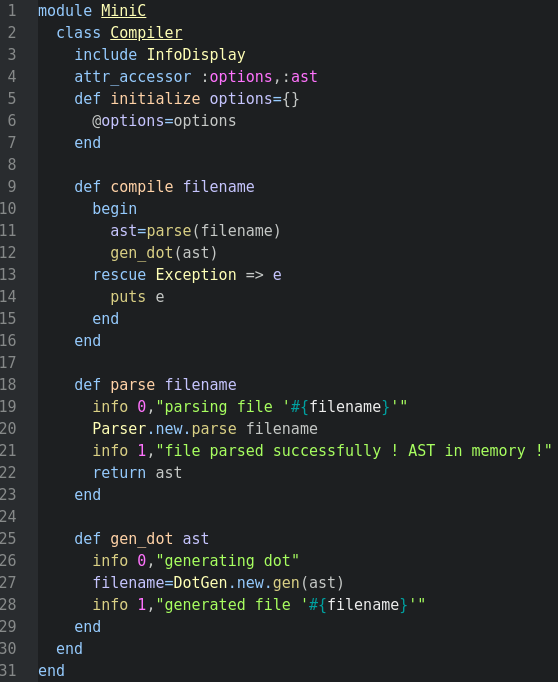
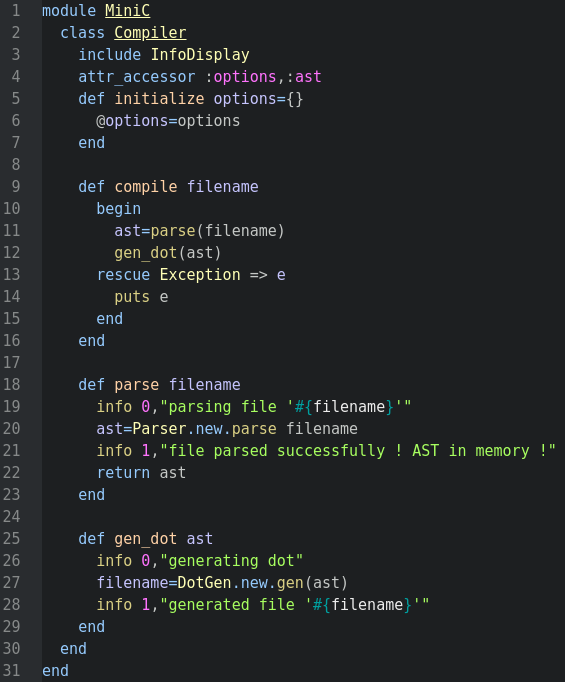
modified README

diff --git a/lib/minic/dot_gen.rb b/lib/minic/dot_gen.rb
@@ -19,30 +19,30 @@ module MiniC
       output_filename
     end
 
-    def rec_walk node
-      id=node.object_id
-      na=node.class.to_s.split("::").last #node name
+    def rec_walk source
+      id=source.object_id
+      na=source.class.to_s.split("::").last #node name
       @code << "#{id}[label=\"#{na}\"]"
-      node.instance_variables.each do |ivar|
-        subnode=node.instance_variable_get(ivar)
-        case subnode
+      source.instance_variables.each do |ivar|
+        sink=source.instance_variable_get(ivar)
+        case ary=sink
         when Array
-          subnode.each_with_index do |elem,idx|
-            process_edge(node,elem,idx)
-            rec_walk(elem) unless elem.is_a? Token
+          ary.each_with_index do |sink,idx|
+            process_edge(source,ivar,sink,idx)
+            rec_walk(sink) unless sink.is_a? Token
           end
         else
-          process_edge(node,subnode)
-          rec_walk(subnode) unless subnode.is_a? Token
+          process_edge(source,ivar,sink)
+          rec_walk(sink) unless sink.is_a? Token
         end
       end
     end
 
-    def process_edge source,sink,idx=nil
+    def process_edge source,ivar,sink,idx=nil
       sink_id=sink.object_id
       sink_na=sink.class.to_s.split("::").last # sink name
       sink_na=sink.val if sink.is_a? Token
-      edge_na=sink_na.downcase unless sink.is_a? Token
+      edge_na=ivar.to_s[1..-1] unless sink.is_a? Token
       edge_na+="[#{idx}]" if idx
       color=",color=red" if sink.is_a? Token
       @code << "#{sink_id}[label=\"#{sink_na}\"#{color}]"

diff --git a/lib/minic/compiler.rb b/lib/minic/compiler.rb
@@ -17,8 +17,9 @@ module MiniC
 
     def parse filename
       info 0,"parsing file '#{filename}'"
-      Parser.new.parse filename
+      ast=Parser.new.parse filename
       info 1,"file parsed successfully ! AST in memory !"
+      return ast
     end
 
     def gen_dot ast

diff --git a/README.md b/README.md
@@ -12,5 +12,12 @@ MiniC for compiler course. Example in Ruby !
 # Running !
 ![grammar](/doc/anim.svg "run the compiler !")
 
-# Example output
-![grammar](/doc/output.png "example AST")
+# Example input (test_2.c)
+<p align="left">
+  <img src="/doc/test_2.png" />
+</p>
+
+# Example AST (test_2.c)
+<p align="left">
+  <img src="/doc/test_2_AST.png" />
+</p>
